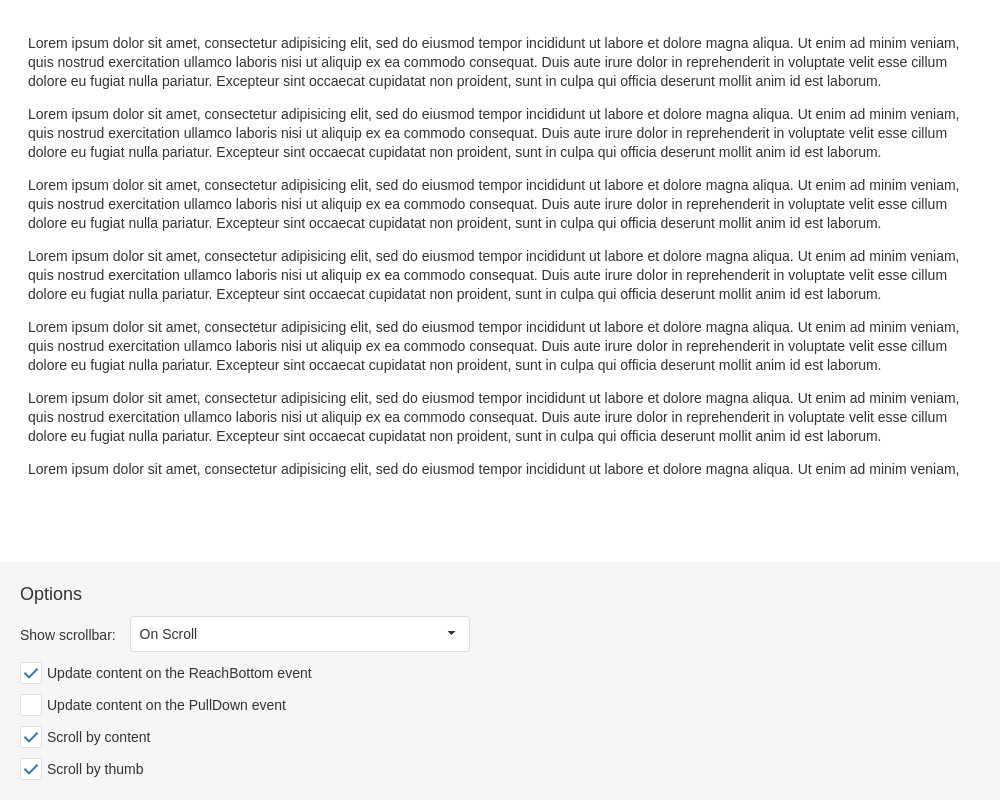
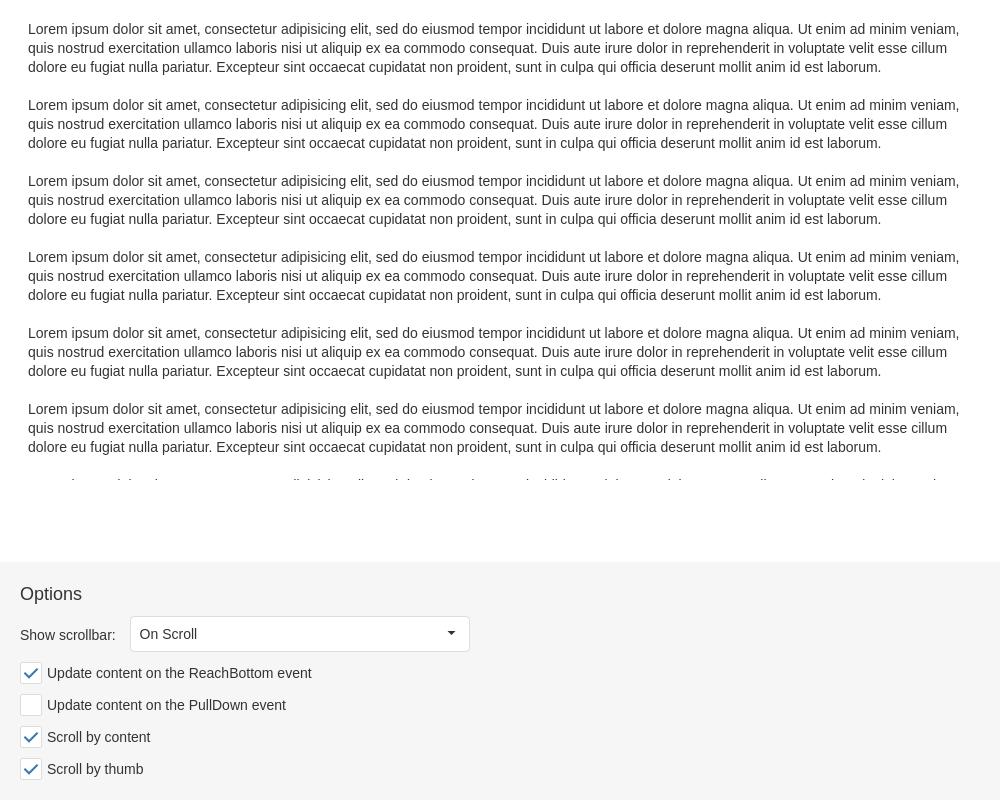
Fix React and Vue test: Scrollview-Overview (#1311)

Changed region(s): [[0.031, 0.0312, 0.961, 0.2812], [0.031, 0.4062, 0.961, 0.5938], [0.031, 0.3125, 0.961, 0.375]]

diff --git a/JSDemos/Demos/ScrollView/Overview/Angular/app/app.service.ts b/JSDemos/Demos/ScrollView/Overview/Angular/app/app.service.ts
@@ -6,7 +6,7 @@ let content = "";
 export class Service {
     getContent(){
         for(var i=0; i < 10; i++) {
-            content += "<p>Lorem ipsum dolor sit amet, consectetur adipisicing elit, sed do eiusmod tempor incididunt ut labore et dolore magna aliqua. Ut enim ad minim veniam, quis nostrud exercitation ullamco laboris nisi ut aliquip ex ea commodo consequat. Duis aute irure dolor in reprehenderit in voluptate velit esse cillum dolore eu fugiat nulla pariatur. Excepteur sint occaecat cupidatat non proident, sunt in culpa qui officia deserunt mollit anim id est laborum.</p>";
+            content += "Lorem ipsum dolor sit amet, consectetur adipisicing elit, sed do eiusmod tempor incididunt ut labore et dolore magna aliqua. Ut enim ad minim veniam, quis nostrud exercitation ullamco laboris nisi ut aliquip ex ea commodo consequat. Duis aute irure dolor in reprehenderit in voluptate velit esse cillum dolore eu fugiat nulla pariatur. Excepteur sint occaecat cupidatat non proident, sunt in culpa qui officia deserunt mollit anim id est laborum.\n\n";
         }
         content += "<br />";
         

diff --git a/JSDemos/Demos/ScrollView/Overview/jQuery/data.js b/JSDemos/Demos/ScrollView/Overview/jQuery/data.js
@@ -1,7 +1,7 @@
 let longText = '';
 
 for (let i = 0; i < 10; i += 1) {
-  longText += '<p>Lorem ipsum dolor sit amet, consectetur adipisicing elit, sed do eiusmod tempor incididunt ut labore et dolore magna aliqua. Ut enim ad minim veniam, quis nostrud exercitation ullamco laboris nisi ut aliquip ex ea commodo consequat. Duis aute irure dolor in reprehenderit in voluptate velit esse cillum dolore eu fugiat nulla pariatur. Excepteur sint occaecat cupidatat non proident, sunt in culpa qui officia deserunt mollit anim id est laborum.</p>';
+  longText += 'Lorem ipsum dolor sit amet, consectetur adipisicing elit, sed do eiusmod tempor incididunt ut labore et dolore magna aliqua. Ut enim ad minim veniam, quis nostrud exercitation ullamco laboris nisi ut aliquip ex ea commodo consequat. Duis aute irure dolor in reprehenderit in voluptate velit esse cillum dolore eu fugiat nulla pariatur. Excepteur sint occaecat cupidatat non proident, sunt in culpa qui officia deserunt mollit anim id est laborum.\n\n';
 }
 
 longText += '<br />';

diff --git a/JSDemos/Demos/ScrollView/Overview/Vue/index.html b/JSDemos/Demos/ScrollView/Overview/Vue/index.html
@@ -7,7 +7,7 @@
     <meta http-equiv="Content-Type" content="text/html; charset=utf-8" />
     <meta name="viewport" content="width=device-width, initial-scale=1.0, maximum-scale=1.0" />
     <link rel="stylesheet" type="text/css" href="../../../../../node_modules/devextreme/dist/css/dx.common.css" />
-    <link rel="dx-theme" data-theme="generic.light" href="../../../../../node_modules/devextreme/dist/css/dx.light.css" />
+    <link rel="stylesheet" type="text/css" href="../../../../../node_modules/devextreme/dist/css/dx.light.css" />
 
     <script src="../../../../../node_modules/core-js/client/shim.min.js"></script>
     <script src="../../../../../node_modules/systemjs/dist/system.js"></script>

diff --git a/JSDemos/Demos/ScrollView/Overview/Vue/data.js b/JSDemos/Demos/ScrollView/Overview/Vue/data.js
@@ -4,7 +4,4 @@ for (let i = 0; i < 10; i += 1) {
   text += 'Lorem ipsum dolor sit amet, consectetur adipisicing elit, sed do eiusmod tempor incididunt ut labore et dolore magna aliqua. Ut enim ad minim veniam, quis nostrud exercitation ullamco laboris nisi ut aliquip ex ea commodo consequat. Duis aute irure dolor in reprehenderit in voluptate velit esse cillum dolore eu fugiat nulla pariatur. Excepteur sint occaecat cupidatat non proident, sunt in culpa qui officia deserunt mollit anim id est laborum.\n\n';
 }
 
-text += '<br />';
-
 export const longText = text;
-

diff --git a/JSDemos/Demos/ScrollView/Overview/Angular/app/app.component.html b/JSDemos/Demos/ScrollView/Overview/Angular/app/app.component.html
@@ -8,7 +8,7 @@
         reachBottomText="Updating..."
         (onPullDown)="updateTopContent($event)"
         (onReachBottom)="updateBottomContent($event)">
-        <div [innerHTML]="content"></div>
+        <div id="scrollview-content" [innerHTML]="content"></div>
     </dx-scroll-view>
     <div class="options">
         <div class="caption">Options</div>

diff --git a/JSDemos/Demos/ScrollView/Overview/Angular/app/app.component.css b/JSDemos/Demos/ScrollView/Overview/Angular/app/app.component.css
@@ -8,6 +8,9 @@
     bottom: 300px;
     padding: 20px;
 }
+::ng-deep #scrollview-content {
+    white-space: pre-wrap;
+}
 ::ng-deep .options {
     padding: 20px;
     background-color: rgba(191, 191, 191, 0.15);

diff --git a/JSDemos/Demos/ScrollView/Overview/jQuery/styles.css b/JSDemos/Demos/ScrollView/Overview/jQuery/styles.css
@@ -10,6 +10,10 @@
     padding: 20px;  
 }
 
+#scrollview-content {
+    white-space: pre-wrap;
+}
+
 .options {
     padding: 20px;
     background-color: rgba(191, 191, 191, 0.15);

diff --git a/MVCDemos/Content/DemosStyles/ScrollView/Overview.css b/MVCDemos/Content/DemosStyles/ScrollView/Overview.css
@@ -10,6 +10,10 @@
     padding: 20px;  
 }
 
+#scrollview-content {
+    white-space: pre-wrap;
+}
+
 .options {
     padding: 20px;
     background-color: rgba(191, 191, 191, 0.15);

diff --git a/NetCoreDemos/wwwroot/css/DemosStyles/ScrollView/Overview.css b/NetCoreDemos/wwwroot/css/DemosStyles/ScrollView/Overview.css
@@ -10,6 +10,10 @@
     padding: 20px;  
 }
 
+#scrollview-content {
+    white-space: pre-wrap;
+}
+
 .options {
     padding: 20px;
     background-color: rgba(191, 191, 191, 0.15);
